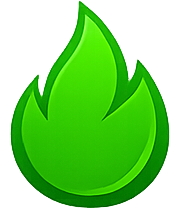
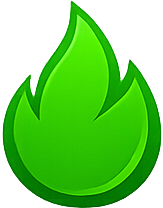
v202
Flame alignment

diff --git a/styles.css b/styles.css
@@ -3,6 +3,7 @@
  * Copyright © 2026 Sam Cornwell. All rights reserved.
  * Personal non-commercial use only. See LICENSE.md.
  * BOXXY v166: fifteen dedicated box and target sprite colours.
+ * BOXXY v202: optically aligned, equally spaced streak and completion badges.
  * BOXXY v201: supplied streak-flame artwork with coded day count inside the flame.
  * BOXXY v196: reliable first-load splash and startup loading gate.
  * BOXXY v195: legal modal, Zen next-level control, lower landscape arrows and mobile music pause.
@@ -18,7 +19,7 @@ button{font:inherit;color:inherit;cursor:pointer}
 .app{width:min(1600px,100%);height:100dvh;min-height:0;margin:auto;display:grid;grid-template-columns:minmax(0,1fr) clamp(310px,24vw,360px);overflow:hidden;background:rgba(248,242,232,.88);border-inline:1px solid var(--line)}
 .play-area{min-width:0;min-height:0;overflow:hidden;display:grid;grid-template-rows:clamp(92px,14dvh,132px) minmax(0,1fr) clamp(52px,8dvh,76px)}
 .masthead{min-height:0;display:flex;justify-content:space-between;align-items:center;padding:clamp(10px,1.4dvh,16px) clamp(22px,2.5vw,36px);border-bottom:1px solid var(--line)}
-.title{min-width:0;max-width:56%;flex:0 1 auto}.title strong,.title span{display:block;max-width:100%;font-weight:950;line-height:.86;letter-spacing:.04em;white-space:nowrap}.title strong{font-size:clamp(32px,min(4.2vw,6dvh),60px)}.title span{font-size:clamp(18px,min(2.55vw,3.5dvh),32px);letter-spacing:.025em;color:var(--red);margin-top:clamp(5px,.8dvh,9px)}
+.title{min-width:0;max-width:56%;flex:0 1 auto}.title-word-row > strong,.title > span{display:block;max-width:100%;font-weight:950;line-height:.86;letter-spacing:.04em;white-space:nowrap}.title-word-row > strong{font-size:clamp(32px,min(4.2vw,6dvh),60px)}.title > span{font-size:clamp(18px,min(2.55vw,3.5dvh),32px);letter-spacing:.025em;color:var(--red);margin-top:clamp(5px,.8dvh,9px)}
 .collection{text-align:right;font-size:clamp(15px,1.8vw,24px);font-style:normal}.collection b{display:block;line-height:1.02}.collection i{display:block;width:clamp(100px,11vw,150px);height:clamp(5px,.8dvh,8px);background:var(--ink);margin:9px 0 6px auto}.collection span{font-weight:900;font-size:1.12em}
 .board-wrap{position:relative;min-width:0;min-height:0;display:grid;place-items:center;overflow:hidden;padding:clamp(16px,2.8dvh,30px);background:linear-gradient(135deg,#f4ebdd,#eadcca)}
 .board{position:relative;width:320px;max-width:100%;max-height:100%;aspect-ratio:var(--ratio);flex:none;background-color:#f4ecdf;background-image:linear-gradient(rgba(80,65,45,.09) 1px,transparent 1px),linear-gradient(90deg,rgba(80,65,45,.09) 1px,transparent 1px),linear-gradient(135deg,rgba(255,255,255,.26),rgba(110,85,50,.05));background-size:calc(100% / var(--cols)) calc(100% / var(--rows)),calc(100% / var(--cols)) calc(100% / var(--rows)),100% 100%;box-shadow:0 34px 62px rgba(37,26,15,.42),0 12px 24px rgba(37,26,15,.25);isolation:isolate;outline:0;overflow:hidden;border:0}
@@ -88,13 +89,13 @@ button:active{transform:translateY(1px);filter:brightness(.96)}button:disabled{o
 body.autoplaying .action,body.autoplaying .dpad button{opacity:.55;pointer-events:none}
 
 @media(max-height:720px) and (min-width:761px){
-  :root{--max-cell:64px}.play-area{grid-template-rows:82px minmax(0,1fr) 46px}.masthead{padding-block:7px}.title strong{font-size:34px}.title span{font-size:18px;margin-top:4px}.collection{font-size:14px}.collection i{width:92px;height:5px;margin-block:6px 4px}.instruction{padding-block:7px}.side-panel{grid-template-rows:auto auto auto minmax(112px,1fr) auto 26px}.credit{padding-block:8px}.stats>div,.stats .time{padding-block:5px}.stats strong{font-size:18px}.top-actions{padding-block:6px}.action{min-height:48px}.dpad{width:min(19dvh,150px)}.bottom-actions{padding-block:6px}.action.small{min-height:44px}.palette{height:26px}}
+  :root{--max-cell:64px}.play-area{grid-template-rows:82px minmax(0,1fr) 46px}.masthead{padding-block:7px}.title-word-row > strong{font-size:34px}.title > span{font-size:18px;margin-top:4px}.collection{font-size:14px}.collection i{width:92px;height:5px;margin-block:6px 4px}.instruction{padding-block:7px}.side-panel{grid-template-rows:auto auto auto minmax(112px,1fr) auto 26px}.credit{padding-block:8px}.stats>div,.stats .time{padding-block:5px}.stats strong{font-size:18px}.top-actions{padding-block:6px}.action{min-height:48px}.dpad{width:min(19dvh,150px)}.bottom-actions{padding-block:6px}.action.small{min-height:44px}.palette{height:26px}}
 
 @media(max-width:760px){
   :root{--max-cell:56px}
   .app{grid-template-columns:1fr;grid-template-rows:minmax(0,1fr) clamp(205px,29dvh,252px);border:0}
   .play-area{grid-template-rows:clamp(64px,9dvh,78px) minmax(0,1fr) clamp(34px,5dvh,44px)}
-  .masthead{padding:8px 13px}.title strong{font-size:30px}.title span{font-size:17px;margin-top:6px}.collection{font-size:11px}.collection i{width:72px;height:4px;margin:5px 0 3px auto}.board-wrap{padding:10px}.deco,.stripes,.semicircle{opacity:.28}.deco-red{width:65px;height:65px;left:8px;top:8px}.deco-yellow{width:52px;height:38px;right:8px;top:60px}.stripes{display:none}.semicircle{width:82px;height:82px;right:-28px;bottom:8px}.instruction{padding:5px 10px;gap:8px;font-size:10px}.info{width:25px;height:25px;font-size:15px}
+  .masthead{padding:8px 13px}.title-word-row > strong{font-size:30px}.title > span{font-size:17px;margin-top:6px}.collection{font-size:11px}.collection i{width:72px;height:4px;margin:5px 0 3px auto}.board-wrap{padding:10px}.deco,.stripes,.semicircle{opacity:.28}.deco-red{width:65px;height:65px;left:8px;top:8px}.deco-yellow{width:52px;height:38px;right:8px;top:60px}.stripes{display:none}.semicircle{width:82px;height:82px;right:-28px;bottom:8px}.instruction{padding:5px 10px;gap:8px;font-size:10px}.info{width:25px;height:25px;font-size:15px}
   .side-panel{border-left:0;border-top:2px solid var(--ink);grid-template-columns:minmax(78px,1fr) minmax(132px,156px) minmax(78px,1fr);grid-template-rows:25px 39px minmax(132px,1fr) 11px;overflow:hidden}
   .credit{grid-column:1/-1;grid-row:1;padding:4px 8px;display:flex;align-items:center;justify-content:center;gap:6px;text-align:center}.credit strong{font-size:10px}.credit span{font-size:7px;margin:0}.stats{grid-column:1/-1;grid-row:2}.stats>div,.stats .time{padding:4px 2px}.stats span{font-size:6px}.stats strong{font-size:16px;margin-top:0}
   .top-actions{grid-column:1;grid-row:3;grid-template-columns:1fr;grid-template-rows:repeat(3,1fr);gap:4px;padding:7px 5px 7px 8px}.bottom-actions{grid-column:3;grid-row:3;grid-template-columns:1fr;grid-template-rows:repeat(3,1fr);gap:4px;padding:7px 8px 7px 5px}.fullscreen-action{display:none!important}.action,.action.small{min-height:0;height:100%}.action span,.action.small span{font-size:23px}.action b,.action.small b{font-size:8px}.fullscreen-action b{max-width:58px!important;white-space:normal!important;overflow-wrap:normal!important;font-size:7px!important;line-height:.94;letter-spacing:.01em}
@@ -102,7 +103,7 @@ body.autoplaying .action,body.autoplaying .dpad button{opacity:.55;pointer-event
 }
 
 @media(max-height:520px) and (orientation:landscape){
-  :root{--max-cell:52px}.app{grid-template-columns:minmax(0,1fr) 270px;grid-template-rows:1fr}.play-area{grid-template-rows:52px minmax(0,1fr) 28px}.masthead{padding:4px 12px}.title strong{font-size:23px}.title span{font-size:13px;margin-top:3px}.collection{font-size:9px}.collection i{width:60px;height:3px;margin:3px 0 2px auto}.instruction{padding:3px 10px;font-size:8px}.info{width:20px;height:20px;font-size:12px}.side-panel{border-top:0;border-left:2px solid var(--ink);grid-template-columns:1fr;grid-template-rows:22px 33px 48px minmax(92px,1fr) 46px 10px}.credit{grid-column:1;grid-row:1;padding:3px 6px}.credit strong{font-size:9px}.credit span{font-size:6px}.stats{grid-column:1;grid-row:2}.stats>div,.stats .time{padding:2px}.stats strong{font-size:13px}.top-actions{grid-column:1;grid-row:3;grid-template-columns:repeat(3,1fr);grid-template-rows:1fr;padding:4px 7px}.dpad{grid-column:1;grid-row:4;width:min(26dvh,118px)}.bottom-actions{grid-column:1;grid-row:5;grid-template-columns:repeat(3,1fr);grid-template-rows:1fr;padding:4px 7px}.fullscreen-action{display:none!important}.palette{grid-column:1;grid-row:6;height:10px}.action,.action.small{min-height:0}.action span,.action.small span{font-size:18px}.action b,.action.small b{font-size:7px}.level-picker{position:absolute;top:auto;bottom:12px;left:10px;right:10px;transform:none}.level-picker #levelButtons{grid-template-columns:repeat(10,1fr)}}
+  :root{--max-cell:52px}.app{grid-template-columns:minmax(0,1fr) 270px;grid-template-rows:1fr}.play-area{grid-template-rows:52px minmax(0,1fr) 28px}.masthead{padding:4px 12px}.title-word-row > strong{font-size:23px}.title > span{font-size:13px;margin-top:3px}.collection{font-size:9px}.collection i{width:60px;height:3px;margin:3px 0 2px auto}.instruction{padding:3px 10px;font-size:8px}.info{width:20px;height:20px;font-size:12px}.side-panel{border-top:0;border-left:2px solid var(--ink);grid-template-columns:1fr;grid-template-rows:22px 33px 48px minmax(92px,1fr) 46px 10px}.credit{grid-column:1;grid-row:1;padding:3px 6px}.credit strong{font-size:9px}.credit span{font-size:6px}.stats{grid-column:1;grid-row:2}.stats>div,.stats .time{padding:2px}.stats strong{font-size:13px}.top-actions{grid-column:1;grid-row:3;grid-template-columns:repeat(3,1fr);grid-template-rows:1fr;padding:4px 7px}.dpad{grid-column:1;grid-row:4;width:min(26dvh,118px)}.bottom-actions{grid-column:1;grid-row:5;grid-template-columns:repeat(3,1fr);grid-template-rows:1fr;padding:4px 7px}.fullscreen-action{display:none!important}.palette{grid-column:1;grid-row:6;height:10px}.action,.action.small{min-height:0}.action span,.action.small span{font-size:18px}.action b,.action.small b{font-size:7px}.level-picker{position:absolute;top:auto;bottom:12px;left:10px;right:10px;transform:none}.level-picker #levelButtons{grid-template-columns:repeat(10,1fr)}}
 
 /* Konami-code background movement: static until the code is entered. */
 body.konami-background .bg-shape.static.konami-a{animation:konamiFloatA var(--kdur,10s) ease-in-out infinite alternate!important;animation-delay:var(--kdelay,0s)!important}
@@ -1323,8 +1324,8 @@ html.touch-ui .dpad{
     min-width:0;
     overflow:hidden;
   }
-  .title strong{font-size:clamp(27px,8.4vw,34px)}
-  .title span{font-size:clamp(13px,4.7vw,18px)}
+  .title-word-row > strong{font-size:clamp(27px,8.4vw,34px)}
+  .title > span{font-size:clamp(13px,4.7vw,18px)}
   .collection{
     align-self:stretch;
     min-width:104px;
@@ -1351,8 +1352,8 @@ html.touch-ui .dpad{
 
 @media(max-width:390px){
   .masthead{padding-inline:10px;column-gap:5px}
-  .title strong{font-size:27px}
-  .title span{font-size:14px}
+  .title-word-row > strong{font-size:27px}
+  .title > span{font-size:14px}
   .collection{min-width:94px;max-width:100px;padding-left:5px}
   .collection b{font-size:9px}
   .collection span{font-size:15px}
@@ -2935,18 +2936,26 @@ html.touch-ui .level-attire{
   min-width:0;
 }
 .title-word-row > strong{flex:none}
+.title-badges{
+  --header-badge-size:clamp(25px,2.15vw,34px);
+  --header-badge-gap:clamp(3px,.35vw,6px);
+  display:flex;
+  align-items:center;
+  gap:var(--header-badge-gap);
+  min-width:0;
+  margin-top:-2px;
+}
 .completed-pack-stars{
   display:flex;
   align-items:center;
-  gap:clamp(3px,.35vw,6px);
+  gap:var(--header-badge-gap);
   min-width:0;
-  margin-top:-2px;
 }
 .completed-pack-stars[hidden]{display:none!important}
 .completed-pack-star{
   appearance:none;
-  width:clamp(25px,2.15vw,34px);
-  height:clamp(25px,2.15vw,34px);
+  width:var(--header-badge-size);
+  height:var(--header-badge-size);
   flex:none;
   padding:0;
   border:0;
@@ -3088,12 +3097,11 @@ html.touch-ui .level-attire{
 @media(max-width:760px){
   .title{max-width:68%}
   .title-word-row{gap:4px}
-  .completed-pack-stars{gap:1px}
-  .completed-pack-star{
-    width:clamp(16px,5vw,21px);
-    height:clamp(16px,5vw,21px);
-    filter:drop-shadow(1px 1px 0 rgba(23,23,25,.28));
+  .title-badges{
+    --header-badge-size:clamp(16px,5vw,21px);
+    --header-badge-gap:1px;
   }
+  .completed-pack-star{filter:drop-shadow(1px 1px 0 rgba(23,23,25,.28))}
   .completed-pack-star path{stroke-width:10}
   .pack-completion-stats{gap:5px;margin-bottom:13px}
   .pack-completion-stats > div{padding:8px 4px 7px;box-shadow:2px 2px 0 rgba(23,23,25,.14)}
@@ -3103,8 +3111,7 @@ html.touch-ui .level-attire{
 }
 @media(max-width:390px){
   .title{max-width:72%}
-  .completed-pack-star{width:15px;height:15px}
-  .completed-pack-stars{gap:0}
+  .title-badges{--header-badge-size:15px;--header-badge-gap:0}
 }
 @media(prefers-reduced-motion:reduce){
   .grand-firework::before,.grand-firework i,.grand-confetti{animation-duration:.01ms!important;animation-delay:0ms!important}
@@ -4446,27 +4453,29 @@ body.maker-editor-fullscreen{overflow:hidden}
 }
 
 
-/* BOXXY v201 — supplied streak-flame artwork; daily number remains code-driven. */
+/* BOXXY v202 — supplied artwork on the same optical badge rail as the completion stars. */
 .daily-streak-badge{
   appearance:none;
   position:relative;
-  width:clamp(25px,2.15vw,34px);
-  height:clamp(25px,2.15vw,34px);
+  width:calc(var(--header-badge-size) * 163 / 208);
+  height:var(--header-badge-size);
   flex:none;
   padding:0;
   border:0;
   background:transparent;
-  display:grid;
-  place-items:center;
-  filter:drop-shadow(2px 2px 0 rgba(23,23,25,.22));
+  display:block;
+  overflow:visible;
+  filter:drop-shadow(2px 2px 0 rgba(23,23,25,.28));
   transition:transform .14s ease,filter .14s ease;
 }
 .daily-streak-flame{
   position:absolute;
   inset:0;
+  margin:0;
+  max-width:none;
   background-position:center;
   background-repeat:no-repeat;
-  background-size:contain;
+  background-size:100% 100%;
   pointer-events:none;
 }
 .daily-streak-number{
@@ -4474,11 +4483,12 @@ body.maker-editor-fullscreen{overflow:hidden}
   z-index:1;
   left:50%;
   top:67%;
+  margin:0;
+  max-width:none;
   transform:translate(-50%,-50%);
   min-width:0;
   color:#fff;
   font-family:"Arial Black",Arial,sans-serif;
-  font-size:clamp(5.5px,.62vw,9px);
   font-weight:1000;
   line-height:1;
   letter-spacing:-.06em;
@@ -4487,11 +4497,11 @@ body.maker-editor-fullscreen{overflow:hidden}
   pointer-events:none;
   text-shadow:-1px 0 0 rgba(10,17,20,.82),1px 0 0 rgba(10,17,20,.82),0 -1px 0 rgba(10,17,20,.82),0 1px 0 rgba(10,17,20,.82);
 }
-.daily-streak-badge[data-digits="1"] .daily-streak-number{font-size:clamp(7.5px,.82vw,12px)}
-.daily-streak-badge[data-digits="2"] .daily-streak-number{font-size:clamp(6.4px,.71vw,10.5px)}
-.daily-streak-badge[data-digits="3"] .daily-streak-number{font-size:clamp(5.5px,.62vw,9px)}
-.daily-streak-badge[data-digits="4"] .daily-streak-number{font-size:clamp(4.7px,.53vw,7.8px)}
-.daily-streak-badge[data-digits="5"] .daily-streak-number{font-size:clamp(4.1px,.47vw,6.8px)}
+.daily-streak-badge[data-digits="1"] .daily-streak-number{font-size:calc(var(--header-badge-size) * .36)}
+.daily-streak-badge[data-digits="2"] .daily-streak-number{font-size:calc(var(--header-badge-size) * .31)}
+.daily-streak-badge[data-digits="3"] .daily-streak-number{font-size:calc(var(--header-badge-size) * .265)}
+.daily-streak-badge[data-digits="4"] .daily-streak-number{font-size:calc(var(--header-badge-size) * .23)}
+.daily-streak-badge[data-digits="5"] .daily-streak-number{font-size:calc(var(--header-badge-size) * .20)}
 .daily-streak-badge[data-tier="zero"] .daily-streak-flame{background-image:url("assets/ui/streak-flames/streak-zero.png")}
 .daily-streak-badge[data-tier="green"] .daily-streak-flame{background-image:url("assets/ui/streak-flames/streak-green.png")}
 .daily-streak-badge[data-tier="blue"] .daily-streak-flame{background-image:url("assets/ui/streak-flames/streak-blue.png")}
@@ -4503,7 +4513,7 @@ body.maker-editor-fullscreen{overflow:hidden}
   color:#176e24;
   text-shadow:-1px 0 0 rgba(255,255,255,.92),1px 0 0 rgba(255,255,255,.92),0 -1px 0 rgba(255,255,255,.92),0 1px 0 rgba(255,255,255,.92);
 }
-.daily-streak-badge:hover,.daily-streak-badge:focus-visible{transform:translateY(-2px) scale(1.06);filter:drop-shadow(3px 4px 0 rgba(23,23,25,.28));outline:0}
+.daily-streak-badge:hover,.daily-streak-badge:focus-visible{transform:translateY(-2px) scale(1.06);filter:drop-shadow(3px 4px 0 rgba(23,23,25,.32));outline:0}
 .daily-streak-badge:active{transform:translateY(1px) scale(.97)}
 
 .daily-quote-prompt{min-width:0;flex:1;display:flex;align-items:stretch;gap:7px;font-style:normal}
@@ -4559,7 +4569,7 @@ body.daily-mode .collection{border-color:#2f8f5b;box-shadow:4px 4px 0 rgba(47,14
 body.daily-mode .collection i{background:#2f8f5b}
 
 @media(max-width:760px){
-  .daily-streak-badge{width:clamp(16px,5vw,21px);height:clamp(16px,5vw,21px);filter:drop-shadow(1px 1px 0 rgba(23,23,25,.22))}
+  .daily-streak-badge{filter:drop-shadow(1px 1px 0 rgba(23,23,25,.28))}
   .daily-quote-play{min-height:31px;padding-inline:8px;font-size:8px}
   .daily-quote-play small{padding:4px 5px;font-size:6.5px}
   .daily-quote-dismiss{width:27px;font-size:19px}
@@ -4580,7 +4590,6 @@ body.daily-mode .collection i{background:#2f8f5b}
   .daily-share-status{display:block;margin-top:8px}
 }
 @media(max-width:390px){
-  .daily-streak-badge{width:15px;height:15px}
   .daily-quote-play small{display:none}
 }
 @media(max-height:520px) and (orientation:landscape){

diff --git a/index.html b/index.html
@@ -26,6 +26,7 @@
 <link rel="preload" as="image" href="assets/ui/boxxy-splash.png" fetchpriority="high">
 <script>
   /* BOXXY v196 — reliable first-load splash and startup loading gate. */
+  /* BOXXY v202 — optically aligned, equally spaced streak and completion badges. */
   /* BOXXY v201 — supplied streak-flame artwork with coded day count inside the flame. */
   /* BOXXY v200 — Daily Boxxy puzzle, local-midnight rollover, sharing and streak flame. */
   /* BOXXY v195 — legal modal, Zen next-level control, lower landscape arrows and mobile music pause. */
@@ -117,11 +118,13 @@
       <div class="title">
         <div class="title-word-row">
           <strong>BO<span id="makerHotspot" class="maker-hotspot">X</span>XY</strong>
-          <button id="dailyStreak" class="daily-streak-badge" type="button" data-tier="zero" data-digits="1" aria-label="Daily Boxxy streak: 0 days" title="Daily Boxxy streak: 0 days">
-            <span class="daily-streak-flame" aria-hidden="true"></span>
-            <span id="dailyStreakNumber" class="daily-streak-number" aria-hidden="true">0</span>
-          </button>
-          <div id="completedPackStars" class="completed-pack-stars" hidden aria-label="Completed puzzle packs"></div>
+          <div class="title-badges">
+            <button id="dailyStreak" class="daily-streak-badge" type="button" data-tier="zero" data-digits="1" aria-label="Daily Boxxy streak: 0 days" title="Daily Boxxy streak: 0 days">
+              <span class="daily-streak-flame" aria-hidden="true"></span>
+              <span id="dailyStreakNumber" class="daily-streak-number" aria-hidden="true">0</span>
+            </button>
+            <div id="completedPackStars" class="completed-pack-stars" hidden aria-label="Completed puzzle packs"></div>
+          </div>
         </div>
         <span>PUSHBOX PUZZLE</span>
       </div>
